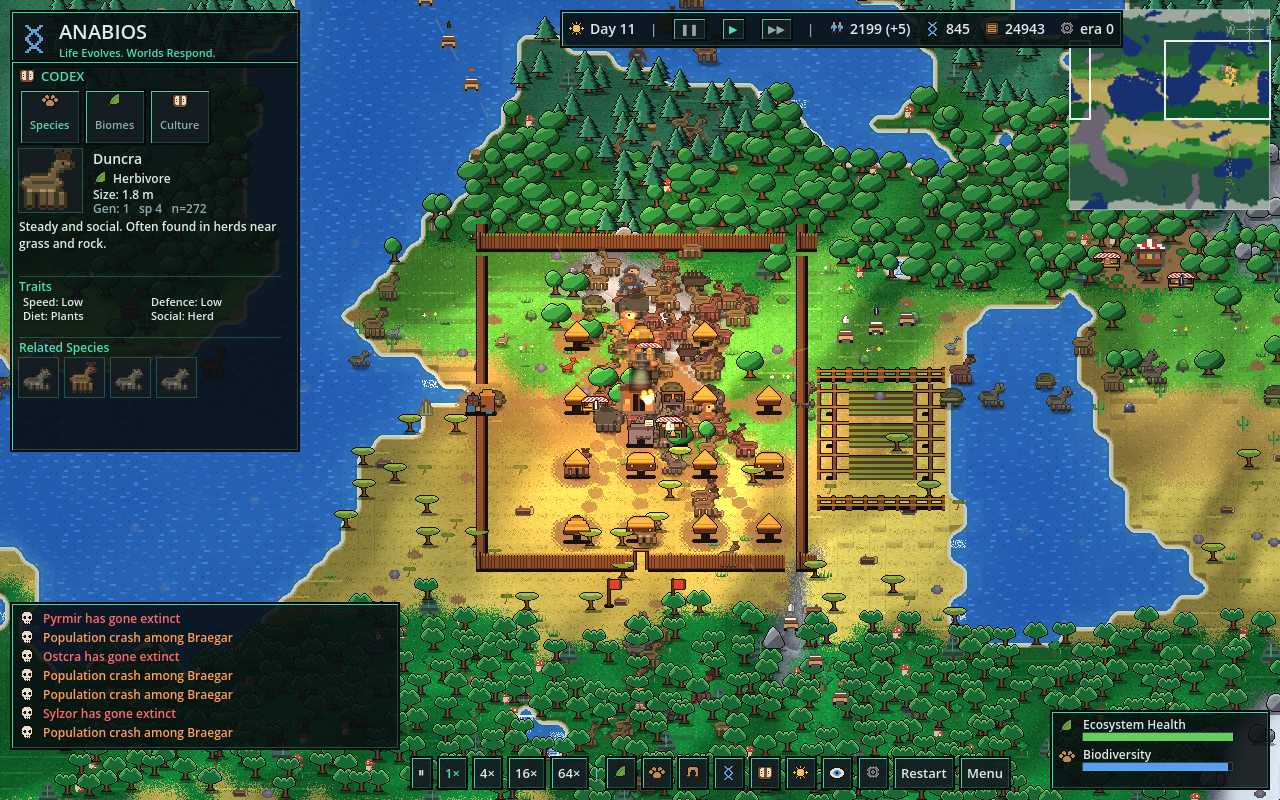
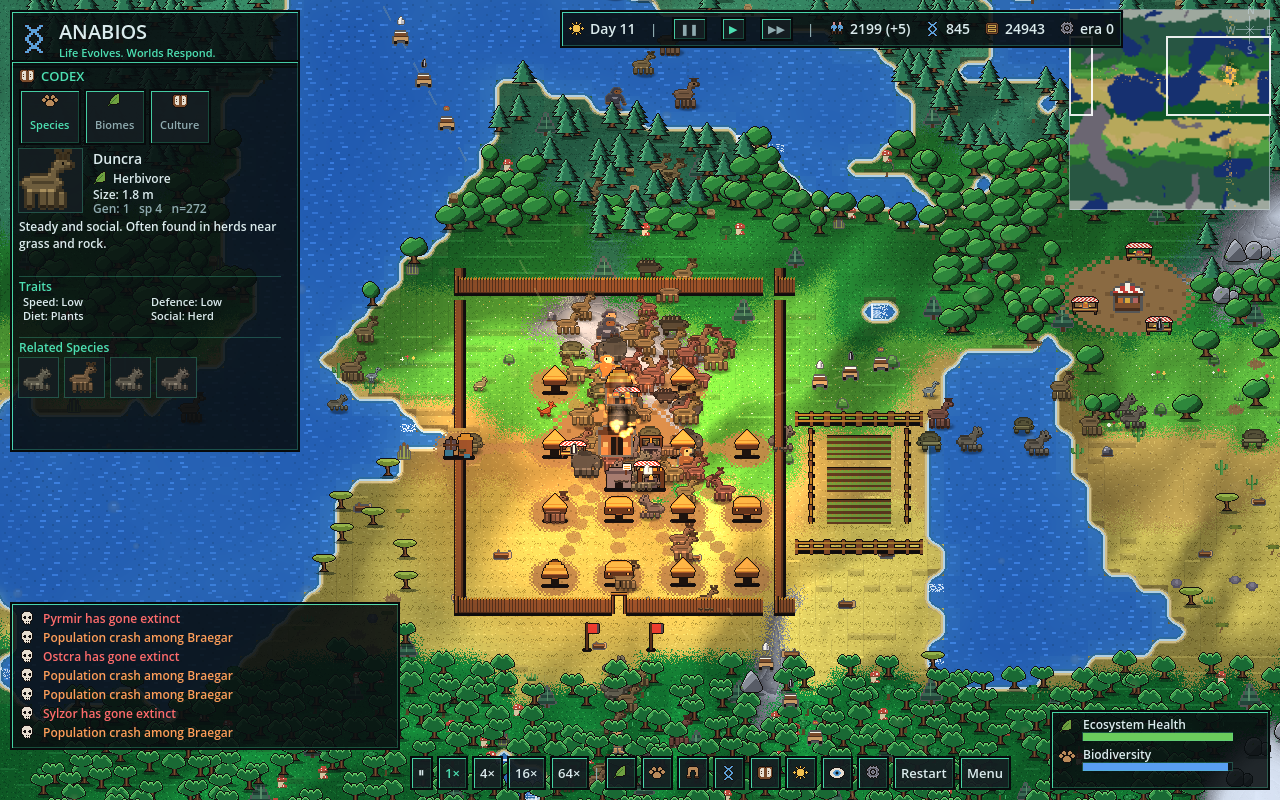
viewer: villages stand in clearings; north-south fences as one post line
Settlement and hub layers publish the rectangles their footprints cover to
a small clearings registry; the per-chunk and whole-world prop planners
drop every bush, boulder and tree inside one, and the ground layers
re-plan their resident props when the set changes. Rectangles snap to
half a village cell so the anchor easing does not force a rebuild every
redraw. The vertical fence tile was a 20 px ladder of two posts with
rails; it is now a single north-south run of posts joined by one rail,
so a fenced field reads as a fence rather than a grid.

Claude-Session: https://claude.ai/code/session_019kbTtZKC2VJBPY6SALU64h

diff --git a/gallery/README.md b/gallery/README.md
@@ -43,7 +43,7 @@ pins an agent in the unit card.
 | File | Scenario / tick / zoom | What you're seeing |
 |---|---|---|
 | scale-settlement-t891-village-4x.png | `settlement` t891 4× (default camera, `ANABIOS_INSPECT=1`) | A camp on packed-earth yards with paths to the hearth, tents spaced a hut-width apart, the crowd capped to one figure per 10 units, a market square with awning stalls beside it, the unit card. |
-| scale-settlement-t891-fortified-2x.png | `settlement` t891 2× (`ANABIOS_VILLAGE_ERA=2 ANABIOS_VILLAGE_FLAGS=123`) | The same camp forced into its fortified era: a log palisade hugging the huts, a gate with banners to the south, a watchtower, fenced fields outside the wall. |
+| scale-settlement-t891-fortified-2x.png | `settlement` t891 2× (`ANABIOS_VILLAGE_ERA=2 ANABIOS_VILLAGE_FLAGS=123`) | The same camp forced into its fortified era: a log palisade hugging the huts, a gate with banners to the south, a watchtower, fenced fields outside the wall, the forest standing back from the clearing. |
 | scale-settlement-t3120-camp-4x.png | `settlement` t3120 4× | The same camp later: hearth smoke, herds at the square, codex species page. |
 | scale-settlement-t1020-codex-species-2x.png | `settlement` t1020 2× (`ANABIOS_CODEX_TAB=1`) | The settlement peninsula: flat lake water with block ripples, dithered biome borders, mixed oak silhouettes, the pixel-font HUD. |
 | scale-settlement-t1591-1x.png | `settlement` t1591 1× | The same world at 1×. |
